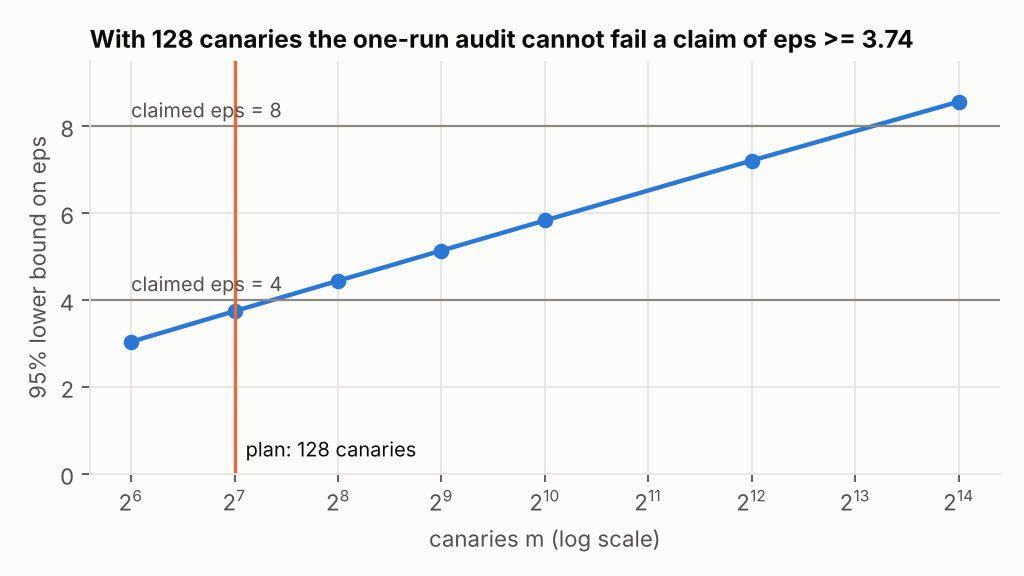
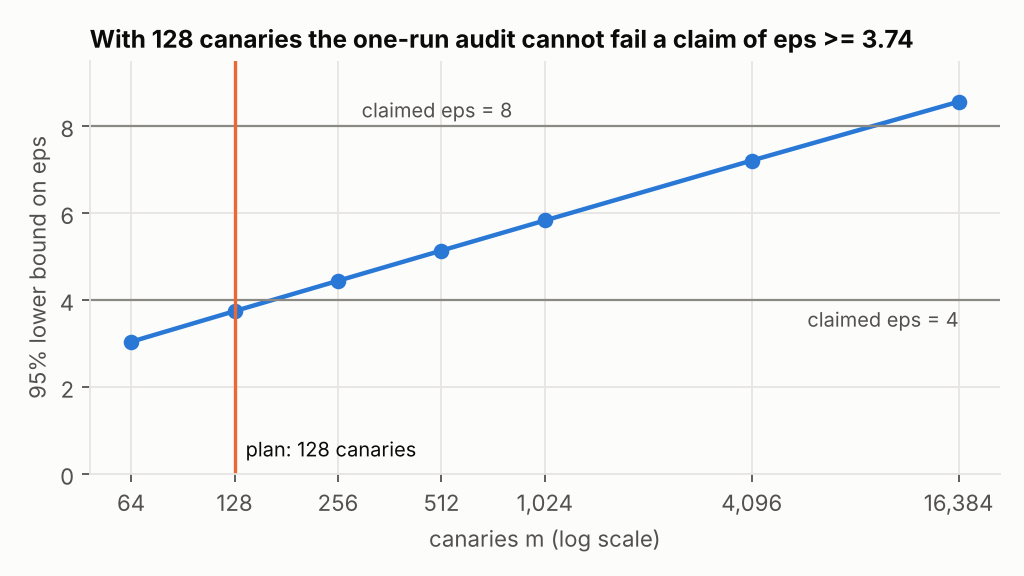
Add README, results write-up (E0-E4) and figures
Claude-Session: https://claude.ai/code/session_01E4ERh6VxoKpzT8qaXBkKR2

diff --git a/experiments/make_figures.py b/experiments/make_figures.py
@@ -54,11 +54,16 @@ def fig_audit():
     ax.plot(ms, ce, color=C[0], marker="o", label="highest eps any attacker can certify")
     for claim in (4, 8):
         ax.axhline(claim, color=REF, lw=1)
-        ax.annotate(f"claimed eps = {claim}", (ms[0], claim), xytext=(0, 4), textcoords="offset points",
-                    color=INK2, fontsize=9)
+        if claim == 4:
+            ax.annotate(f"claimed eps = {claim}", (ms[-1], claim), xytext=(0, -12), textcoords="offset points",
+                        color=INK2, fontsize=9, ha="right")
+        else:
+            ax.annotate(f"claimed eps = {claim}", (300, claim), xytext=(0, 4), textcoords="offset points",
+                        color=INK2, fontsize=9, ha="left")
     ax.axvline(128, color=C[1], lw=1.5)
     ax.annotate("plan: 128 canaries", (128, 0.4), xytext=(5, 0), textcoords="offset points", color=INK, fontsize=9)
     ax.set_xscale("log", base=2)
+    ax.set_xticks(ms, [f"{m:,}" for m in ms])
     ax.set_xlabel("canaries m (log scale)")
     ax.set_ylabel("95% lower bound on eps")
     ax.set_ylim(0, 9.5)
@@ -79,7 +84,8 @@ def fig_filter_gain():
         f = [r["f_hot"] for r in rs]
         g = [r["report"]["filter"]["0.03"]["gain_tokens_vs_fixed"] for r in rs]
         ax.plot(f, g, color=C[i], marker=MK[i], label=f"cold-token logit noise tau = {tau}")
-        label_end(ax, f[-1], g[-1], f"tau = {tau}", C[i], dy=[8, 0, -8][i])
+        ax.annotate(f"tau = {tau}", (f[0], g[0]), xytext=(8, -12) if i == 0 else (4, 9), textcoords="offset points",
+                    color=INK, fontsize=9)
     ax.axhline(3, color=REF, lw=1)
     ax.annotate("G0 gate: 3x", (0.02, 3), xytext=(0, 4), textcoords="offset points", color=INK2, fontsize=9)
     ax.set_xscale("log")
@@ -122,10 +128,11 @@ def fig_sim():
         ax.set_title(f"{world} world, eps = 4", loc="left")
     axes[0].set_ylabel("headroom recovered H")
     axes[0].set_ylim(-0.3, 1.05)
-    axes[1].legend(loc="lower right", fontsize=8)
-    fig.suptitle("Simulator: DP-Fusion with a q0 anchor recovers the most headroom", x=0.01, ha="left",
-                 fontweight="bold", color=INK)
-    fig.tight_layout()
+    h, l = axes[1].get_legend_handles_labels()
+    fig.legend(h, l, loc="lower center", ncol=5, fontsize=8)
+    fig.suptitle("Simulator at eps = 4: utility grows with n; the uniform anchor and sampled-token Gaussian trail",
+                 x=0.01, ha="left", fontweight="bold", color=INK)
+    fig.tight_layout(rect=(0, 0.07, 1, 1))
     fig.savefig(os.path.join(FIG, "simulator_n.png"), dpi=160)
     plt.close(fig)
 

diff --git a/RESULTS.md b/RESULTS.md
@@ -1,0 +1,128 @@
+# Results: DP privileged-context distillation (31 Oct 2026)
+
+Everything in the plan that runs without the LLM has been run: the Phase 0 accountant and budget table, the efficiency-estimate machinery, the Phase 3 filter witness and audit validation, the analytic simulator, and a toy CPU pilot of all ten arms. The LLM phases (G0 divergence profile and teacher headroom, Phase 1, Phase 2, the LLM audits) did not run. This environment has no GPU and cannot reach `huggingface.co`. **No gate (G0, G1, G2) has been decided.**
+
+The zero-GPU work found five problems in the plan that should be fixed before GPU time is spent (Findings 1–5). Findings 6–8 are about the method.
+
+## Findings that change the plan
+
+1. **M1 is over-noised by 2×.** The plan accounts every arm under add/remove-r, where the neighbour's teacher is q0 and M1's release is clip(0) + noise. M1's sensitivity is therefore c, not 2c, so σ = c√R/μ. The plan's σ = 2c√R/μ is the replace-r value. As written, M1 runs at twice the noise std of every other arm, which halves its total SNR (E0).
+2. **Plain B2 needs the replace-one accountant.** Under add/remove-r, x stays in the data, so removing r changes a record's clipped gradient from g_r to g_0 rather than to zero. Use the `REPLACE_ONE` relation; at the Phase 2 defaults it costs only about 1% more noise (z = 0.584 vs 0.579 at ε = 4). The alternative is clipping the residual g_r − g_0 with the anchor term sampled independently (E0).
+3. **M2/M3 are RDP-accounted, so their budget is smaller than the table says.** Converting an RDP curve to (ε, 1e-6) gives μ = 0.788 at ε = 4 instead of the GDP value 0.838, so token caps fall by about 11% (62 instead of 70 at b₂ = 0.01). Tracking only order 2, as a DP-Fusion-style bound would, can never certify ε below 12.4 at δ = 1e-6. The order that matters is about 7 at ε = 4, 22 at ε = 1 and 4 at ε = 8 (E0).
+4. **The Phase 3 audits cannot fail at ε = 4 or 8.** With 128 canaries, even a perfect attacker cannot certify ε above 3.74. The plan's "leak demonstration" (M1 with private token selection) leaks blatantly. At a claimed ε = 4 it still passes the audit with 128 and 1,024 canaries, and is caught only with 8,192 (E3). Run the leak demonstration at a claimed ε = 1, where 128 canaries suffice. An audit at ε = 4 needs at least 166 canaries before even a perfect attacker could fail it, and our realistic leak needed 8,192. Treat ε = 4 and 8 audits as checks against gross failures only.
+5. **The student must not see the mixing weight λ.** In M2/M3, λ is computed from the private teacher q, so a student loss that uses the per-token λ leaks r. Our first simulator version did this. The student may use only a public λ̂, for example the mean λ on the public proxy split. That misspecification leaves a bias floor: in the fully shared simulator world M2 levels off near H = 0.85 while the Gaussian arms reach 0.97 (E4).
+
+## Findings about the method
+
+6. **The filter's gain is set by the cold-token floor.** The gain of realized-divergence accounting over a fixed b₂ is b₂ / E[min(D_t, b₂)]. It clears the 3× gate only when most tokens carry divergence well below b₂, roughly a median μ_t² under b₂/10, with under about 20% hot tokens. If putting r in context perturbs every token a little, the gain disappears (E1). Record-specific divergence also uses up the filter's budget (simulator: the filter gains 2.5× in utility at τ = 0 and nothing at τ = 0.5, E4). The first thing to measure in G0 is the median per-token divergence on Qwen3 rollouts.
+7. **The filter is valid, and the checks catch real bugs.** Across 72 toy LMs, the exact Rényi divergence of the whole filtered run never exceeds its budget; the maximum ratio is exactly 1.000. A last-token overspend control violated the budget in 57/72 runs and a wrong-order control in 72/72 (E2). Our own pilot had a parallel-rollout overspend bug (ledger at 1.22× budget), which the ledger assertion caught and we fixed (E5).
+8. **Direction ④'s conjecture is not supported.** In the simulator, DP widens the gap between sampled-token and full-distribution feedback rather than collapsing it. The gap is 0.12 headroom non-privately and 0.24 at ε = 4 (state world, n = 4,096) (E4). One caveat: the simulator's vocabulary has 32 tokens, and a full-vector Gaussian release over a 150k vocabulary would not be practical.
+
+## Status by plan item
+
+| Plan item | Status | Where |
+|---|---|---|
+| Phase 0: accountant tests | Done; 20 unit tests pass | `tests/`, E0 |
+| Phase 0: budget table | Reproduced exactly; RDP-accounted version added | E0 |
+| Phase 0: divergence profile on Qwen3 rollouts | Blocked (model access, GPU) | estimator ready: `dpcd/efficiency.py` |
+| Phase 0: efficiency estimate | Machinery done, run on synthetic profiles only | E1 |
+| Phase 0: teacher headroom | Blocked (model access, GPU) | |
+| Phase 1: headroom, shared component, leakage | Toy pilot only | E5 |
+| Phase 2: main DP grid | Toy pilot only | E5 |
+| Phase 3: filter witness | Done (exact enumeration) | E2 |
+| Phase 3: one-run canary audit | Validated; ceiling and power measured | E3, E5 |
+| Phase 3: selection swap | Done in the pilot: 0 changes for M2b/M3 chunk selection | E5 |
+| Phase 3: leak demonstration | Done in simulation; only caught with enough canaries | E3 |
+| Ablations: predictions | Tested in the simulator | E4 |
+| Direction ④: reverse-KL limits under DP | Tested in the simulator | E4 |
+
+## E0: budget table and accounting checks
+
+Reproduces every number in the feasibility note and the plan (δ = 1e-6). Full tables: [results/e0_budget/tables.md](results/e0_budget/tables.md).
+
+| ε | μ, GDP (M1) | μ via RDP (M2/M3) | RDP order | Total SNR, n = 4,096 | Total SNR, n = 16,384 | Tokens at b₂ = 0.01, GDP / RDP | Tokens at b₂ = 0.1, GDP / RDP |
+|---|---|---|---|---|---|---|---|
+| 1 | 0.237 | 0.221 | 22 | 7.6 | 15.1 | 5.6 / 4.9 | 0.56 / 0.49 |
+| 2 | 0.448 | 0.420 | 12 | 14.3 | 28.7 | 20.1 / 17.6 | 2.01 / 1.76 |
+| 4 | 0.838 | 0.788 | 7 | 26.8 | 53.6 | 70.2 / 62.2 | 7.02 / 6.22 |
+| 8 | 1.532 | 1.450 | 4 | 49.0 | 98.0 | 234.6 / 210.4 | 23.46 / 21.04 |
+
+Total SNR is the plan's replace-r value; under add/remove-r it doubles (Finding 1). At the Phase 2 defaults (n = 16,384, 300 updates of 64, 4 rollouts) M1 needs σ/c = 41.3 (plan) or 20.7 (add/remove) at ε = 4 with 64 released tokens per rollout. The per-step SNR does not depend on how many tokens are released: 3.10, or 6.19 under add/remove. DP-SGD at the same defaults needs z = 0.579 (add/remove) or 0.584 (replace-one) at ε = 4.
+
+## E1: efficiency estimate (synthetic profiles)
+
+The real G0 numbers need Qwen3 rollouts. This run maps out the decision rule in advance on LLM-like synthetic profiles: V = 512, peaked q0 with median top-1 probability 0.88, a share f of "hot" tokens where r moves mass to a token q0 ranks 2–50, and cold tokens whose logits move by N(0, τ²).
+
+![Filter gain over fixed b2](results/figures/filter_gain.png)
+
+| cold-token noise τ | hot share f | median μ_t² | gain at b₂ = 0.01 | gain at b₂ = 0.03 | gain at b₂ = 0.1 |
+|---|---|---|---|---|---|
+| 0.05 | 0.02 | 0.0004 | 10.3 | 22.2 | 37.9 |
+| 0.05 | 0.2 | 0.0006 | 3.8 | 4.4 | 4.8 |
+| 0.05 | 0.5 | 0.086 | 1.8 | 1.9 | 2.0 |
+| 0.2 | 0.02 | 0.011 | 1.4 | 2.2 | 5.2 |
+| 0.2 | 0.2 | 0.016 | 1.3 | 1.8 | 3.0 |
+| 0.5 | any | ≥ 0.13 | 1.0–1.3 | 1.0–1.1 | 1.1–1.3 |
+
+The gain does not depend on ε. The clipped Gaussian uses only 0–14% of its budget on these profiles, because the student mostly samples tokens where the log-ratio is small. Full table: [results/e1_efficiency/tables.md](results/e1_efficiency/tables.md).
+
+## E2: filter witness
+
+Every output sequence of a filtered sampler on random toy LMs was enumerated (V = 3, T = 8 and V = 4, T = 7; up to 16,384 outputs each), and the exact Rényi divergence of the whole run was computed against the add/remove-r neighbour in both directions. Settings: order α = 7, per-record budget B = 0.6, per-token cap 0.25, claimed ε = 2.42.
+
+| Policy | Runs | Runs exceeding B | Max D_α / B | Max exact δ at the claimed ε |
+|---|---|---|---|---|
+| M3 filter | 72 | 0 | 1.000 | 0 |
+| M2 fixed b | 72 | 0 | 0.833 | 0 |
+| control: last token overspends | 72 | 57 | 1.250 | 0 |
+| control: wrong Rényi order | 72 | 72 | 5.433 | 4.9e-3 |
+| one-sided filter | 72 | 0 | 1.000 | 0 |
+
+The backward direction D_α(P0 ‖ P) never exceeded 0.53× the forward one. The two-sided charge in the plan is safe, and in practice equals the forward charge. The overspend control breaks the RDP budget but not the (ε, δ) claim, because RDP conversion has slack. The witness therefore has to test the RDP ledger, as here, not only δ.
+
+## E3: one-run audit
+
+![Audit ceiling](results/figures/audit_ceiling.png)
+
+**Validity.** On canaries whose inclusion goes through an exact (ε, 1e-6)-DP Gaussian mechanism, the 95% lower bound never exceeded the true ε (20 trials per cell). Its maximum was 3.44 at true ε = 8 with 8,192 canaries.
+
+**Leak demonstration.** M1 releases 8 of 64 tokens per record; a canary's r puts a large log-ratio at a secret position.
+
+| Claimed ε | Selection | 128 canaries | 1,024 canaries | 8,192 canaries |
+|---|---|---|---|---|
+| 1 | public | passes (0.00) | passes (0.04) | passes (0.00) |
+| 1 | private (DIAL-style) | **fails** (1.79) | **fails** (3.66) | **fails** (5.40) |
+| 4 | public | passes (0.00) | passes (0.00) | passes (0.05) |
+| 4 | private (DIAL-style) | passes (1.80) | passes (3.66) | **fails** (5.40) |
+
+The numbers in brackets are mean 95% lower bounds over 5 trials. The δ term follows the p-value routine of Steinke et al. (2023), and the scan over the number of guesses is Bonferroni-corrected.
+
+## E4: analytic simulator
+
+A categorical world: 64 public states, 32 tokens, a shared privileged shift Δ, and record-specific logit noise τ = 0.5. Each record releases 16 private tokens. The student is a log-linear tilt of q0, fitted by penalised maximum likelihood to whatever each mechanism releases. Every mechanism's knobs are tuned on a separate proxy world. H is the share of headroom recovered: 1 means the population teacher, 0 means q0. Full tables: [results/e4_simulator/tables.md](results/e4_simulator/tables.md).
+
+![Simulator, H vs n](results/figures/simulator_n.png)
+
+Pre-registered ablation predictions (ε = 4, n = 4,096 unless stated; H mean over 3 seeds, sd ≈ 0.02–0.08):
+
+| Prediction (plan) | Simulator result | Verdict |
+|---|---|---|
+| Sparse vs dense M1 release: no difference | k = 4 / 16 / 64 of 64 tokens: 0.95 / 0.92 / 0.93 (global), 0.13 / 0.11 / 0.13 (state) | Supported |
+| Few strong vs many weak M2 tokens: equal to first order | 4 / 16 / 64 tokens: 0.84 / 0.82 / 0.85 (global), 0.31 / 0.29 / 0.36 (state) | Supported |
+| Uniform anchor collapses | state world: 0.01 vs 0.30 for q0. Global world at n = 16,384: uniform 0.89 beats q0's 0.85 | Supported except for a fully shared signal at large n, where the uniform anchor's public λ avoids M2's bias floor |
+| Best clip c near the typical log-ratio | tuned c = 1, clipping 7–11% of log-ratios | Supported |
+| Gap to non-private shrinks as 1/√n (n × 4 predicts 0.5×) | Gaussian arms 0.41–0.65×; M2 0.68× (state) and 0.91–1.01× (global) | Supported for the Gaussian; M2 is limited by the λ̂ bias floor |
+| Gaussian and DP-Fusion carry the same information per unit budget | state world: M2 0.30 vs sampled-token Gaussian 0.02, but full-vector Gaussian 0.26 | Equivalent per realized distinguishability; the sampled-token Gaussian wastes budget on small log-ratios |
+
+The realized-divergence filter (M3) matched M2 at ε = 1 and 4, where tuning picked a cap equal to the fixed bound. At ε = 8 it beat M2 (state world: 0.68 vs 0.52 at n = 4,096; 0.86 vs 0.68 at n = 16,384).
+
+## E5: toy CPU pilot of all ten arms
+
+Pending: the pilot was still running at this commit; this section is filled in by the next commit.
+
+## What the LLM run needs
+
+- Network: allow `huggingface.co` in the environment's network settings to load Qwen3-1.7B and the math and MedMCQA data.
+- Compute: GPUs for Phases 1–2. The plan's rough estimate is 500–800 H100-hours for Phase 2.
+- Before the first GPU run, fix the plan per Findings 1–5: M1's σ, B2's accountant, RDP orders, canary counts, and public λ̂. The library code here already does all five.
+- Run the G0 divergence profile first, with `dpcd/efficiency.py` on (q, q0, sampled-token) arrays from 500 records × 4 rollouts. The median per-token divergence settles the filter question immediately (Finding 6).

diff --git a/README.md b/README.md
@@ -1,0 +1,49 @@
+# DP-PCD: DP privileged-context distillation experiments
+
+Code, data and results for the plan "DP Privileged-Context Distillation: Experimental Plan" (31 Oct 2026) and the feasibility note `dp-opsd-feasibility.md`.
+
+**Read [RESULTS.md](RESULTS.md) first.** It lists what ran, what is blocked, and the findings that change the plan.
+
+## What ran here
+
+This session had 4 CPUs, no GPU, and no access to `huggingface.co`, so Qwen3-1.7B could not be loaded. Everything in the plan that does not need the LLM was run in full. The LLM phases have a CPU toy pilot in their place, and it is labelled as such everywhere.
+
+| Experiment | Plan item | Script | Results |
+|---|---|---|---|
+| E0 | Phase 0 accountant tests and budget table | `experiments/e0_budget.py` | `results/e0_budget/` |
+| E1 | Phase 0 efficiency estimate (on synthetic profiles) | `experiments/e1_efficiency.py` | `results/e1_efficiency/` |
+| E2 | Phase 3 filter witness (exact enumeration) | `experiments/e2_filter_witness.py` | `results/e2_filter_witness/` |
+| E3 | Phase 3 one-run audit validation and leak demonstration | `experiments/e3_audit.py` | `results/e3_audit/` |
+| E4 | Analytic categorical simulator (direction 4, ablation predictions) | `experiments/e4_simulator.py` | `results/e4_simulator/` |
+| E5 | Toy CPU pilot of all ten arms with canary audits | `experiments/e5_pilot.py` | `results/e5_pilot/` |
+
+## Library (`dpcd/`)
+
+- `accounting.py`: GDP, RDP-to-(ε, δ) conversion, Gaussian calibration, DP-SGD noise via the PLD accountant (add/remove and replace-one), and the budget table.
+- `divergence.py`: Rényi and χ² divergences for categorical distributions, and the λ search for DP-Fusion mixing.
+- `mechanisms.py`: model-agnostic M1 release, M2 fixed-bound sampling, and the M3 Rényi filter (per-record ledger, parallel-safe).
+- `witness.py`: exact privacy loss of token-sampling mechanisms on toy LMs.
+- `audit.py`: one-run canary audit (Steinke, Nasr and Jagielski, 2023), the audit ceiling, and the selection-swap check.
+- `efficiency.py`: usable private tokens per record from a divergence profile. It takes `(q, q0, sampled token)` arrays, so it runs directly on LLM rollouts.
+- `simulator.py`: the analytic categorical simulator.
+- `pilot.py`: the toy end-to-end pilot (log-linear autoregressive student).
+
+## Reproduce
+
+```bash
+python -m venv venv
+```
+
+```bash
+venv/bin/pip install -r requirements.txt
+```
+
+```bash
+venv/bin/python -m pytest -q tests
+```
+
+```bash
+for e in e0_budget e1_efficiency e2_filter_witness e3_audit e4_simulator e5_pilot make_figures; do venv/bin/python experiments/$e.py; done
+```
+
+Run times on 4 CPUs: E0 3 min, E1 20 s, E2 1 min, E3 25 s, E4 about 22 min, E5 about 45 min.
